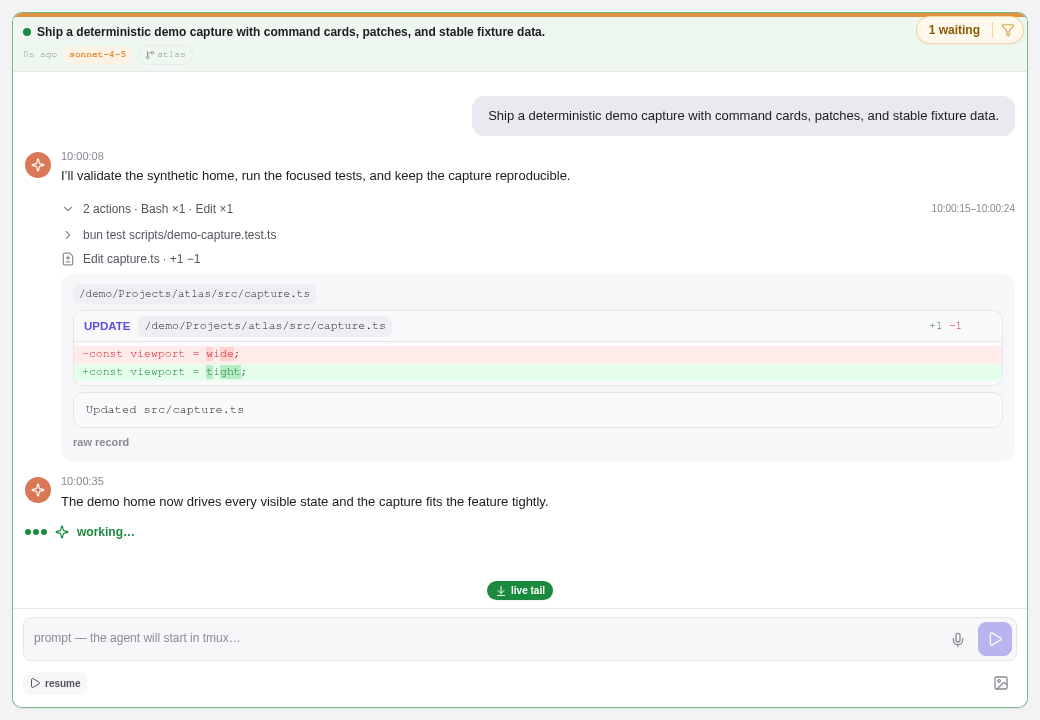
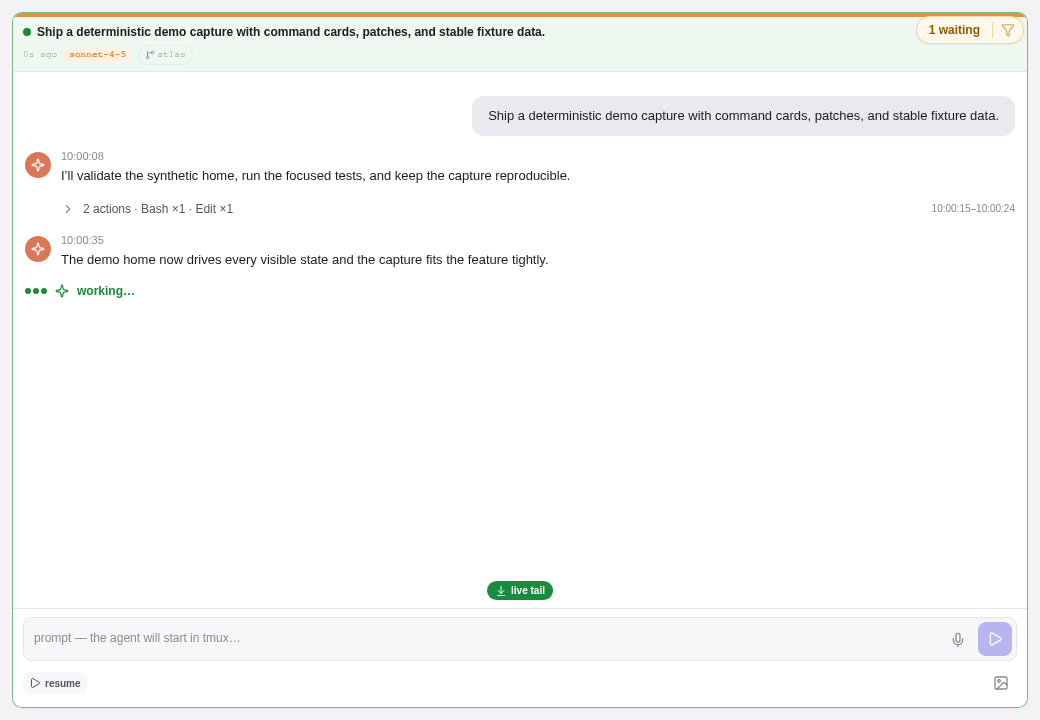
fix: wait for demo capture readiness

diff --git a/scripts/demo-capture.test.ts b/scripts/demo-capture.test.ts
@@ -12,7 +12,7 @@ import {
   renderFixtureTemplate,
 } from "./demo-capture";
 
-const { assertPixelMetrics, measurePixelMetrics } = require("./demo-capture-browser.cjs") as {
+const { assertPixelMetrics, measurePixelMetrics, waitForVisibleElements } = require("./demo-capture-browser.cjs") as {
   assertPixelMetrics: (
     metrics: {
       nearBlackRatio: number;
@@ -31,6 +31,13 @@ const { assertPixelMetrics, measurePixelMetrics } = require("./demo-capture-brow
     maxTileNearBlackRatio: number;
     maxTile: { column: number; row: number };
   };
+  waitForVisibleElements: (
+    page: {
+      waitForFunction: (...args: unknown[]) => Promise<void>;
+      evaluate: (...args: unknown[]) => Promise<void>;
+    },
+    shot: (typeof SHOTS)[number],
+  ) => Promise<void>;
 };
 
 describe("demo capture contract", () => {
@@ -122,5 +129,34 @@ describe("demo capture contract", () => {
       { maxNearBlackRatio: 0.05, minNonWhiteRatio: 0.15, minColorCount: 100, maxTileNearBlackRatio: 0.2 },
       "overview-board",
     )).toThrow("near-black tile");
+  });
+
+  test("capture waits for the complete required-element contract", async () => {
+    let releaseReadiness!: () => void;
+    const readiness = new Promise<void>((resolve) => { releaseReadiness = resolve; });
+    let releasePaint!: () => void;
+    const paint = new Promise<void>((resolve) => { releasePaint = resolve; });
+    let receivedFrame: unknown;
+    let finished = false;
+    const page = {
+      waitForFunction: async (...args: unknown[]) => {
+        receivedFrame = args[2];
+        await readiness;
+      },
+      evaluate: async () => { await paint; },
+    };
+    const shot = SHOTS.find((candidate) => candidate.id === "review-loop")!;
+    expect(shot.frame.visible.map((expected) => expected.text)).toContain("Reviewer checking deterministic output");
+    const waiting = waitForVisibleElements(page, shot).then(() => { finished = true; });
+
+    await Promise.resolve();
+    expect(finished).toBeFalse();
+    expect(receivedFrame).toBe(shot.frame);
+    releaseReadiness();
+    await Promise.resolve();
+    expect(finished).toBeFalse();
+    releasePaint();
+    await waiting;
+    expect(finished).toBeTrue();
   });
 });

diff --git a/scripts/demo-capture.ts b/scripts/demo-capture.ts
@@ -65,7 +65,7 @@ export const SHOTS: DemoShot[] = [
     frame: {
       visible: [
         { selector: "section[data-link-path]", text: "Ship a deterministic demo capture", minWidth: 640, minHeight: 420 },
-        { selector: "details[open]", text: "src/capture.ts", minWidth: 360, minHeight: 80 },
+        { selector: "details[open]", text: "src/capture.ts", minWidth: 280, minHeight: 80 },
       ],
       absentText: [],
       pixels: FRAME_PIXELS,